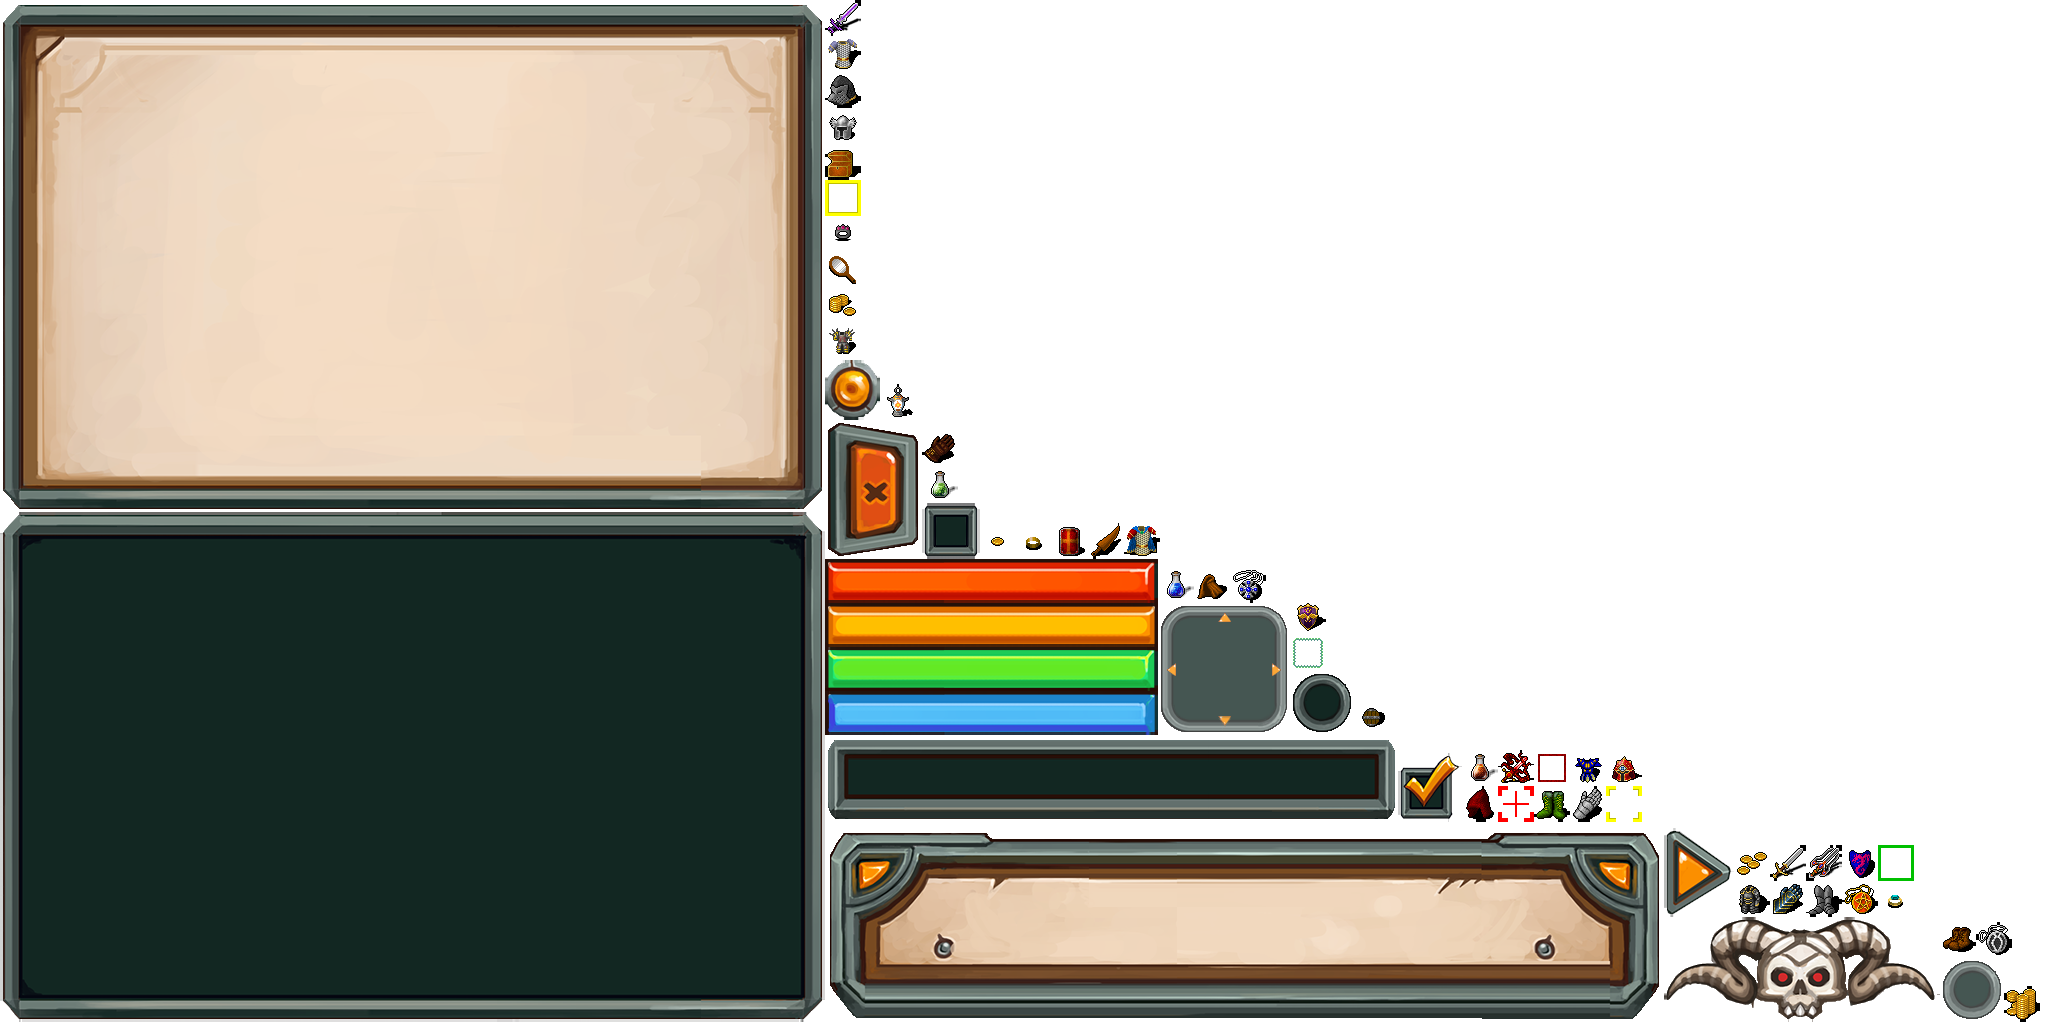
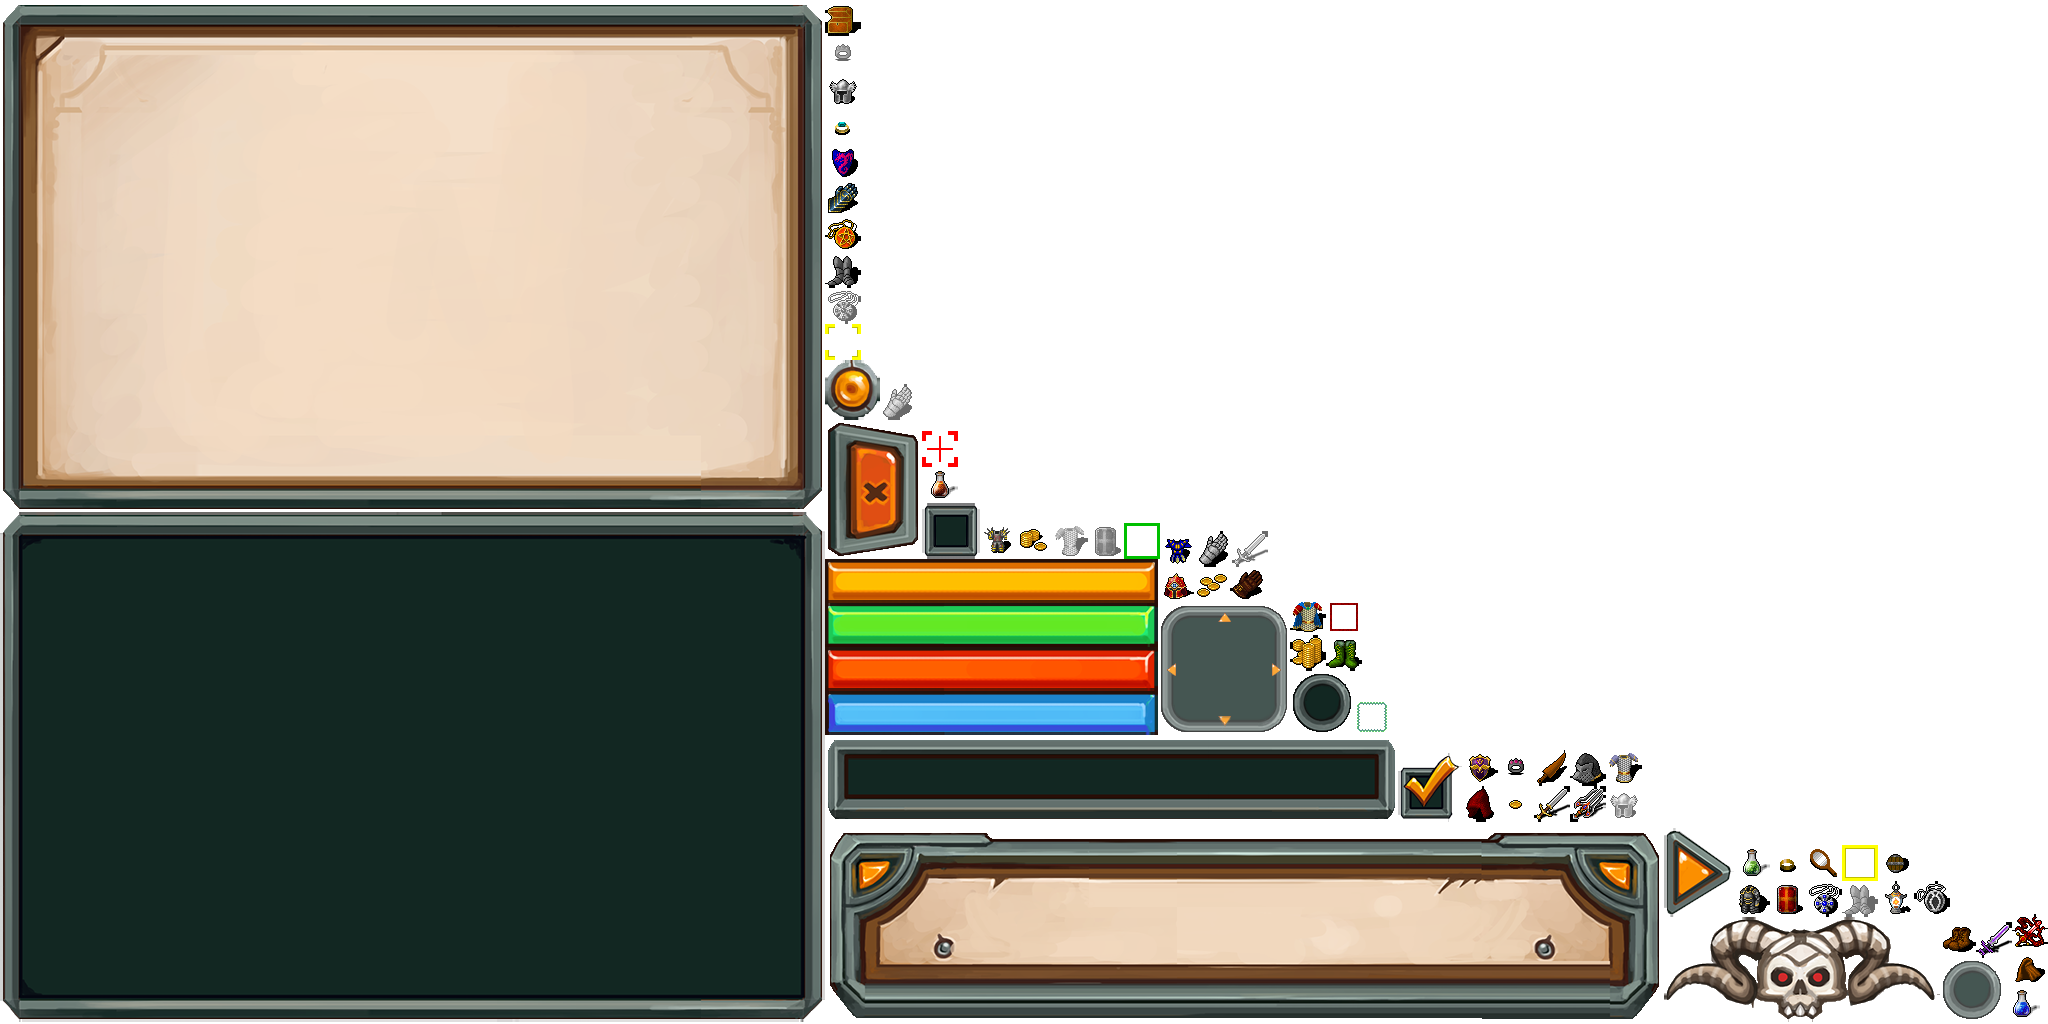
- added equiptype functionality so that f.e. weapons can only be dropped on weapon slot - also updated UI to indicate invalid drags to the user

diff --git a/core/src/com/quillraven/masamune/ui/InventoryUI.kt b/core/src/com/quillraven/masamune/ui/InventoryUI.kt
@@ -15,9 +15,13 @@ class InventoryUI constructor(game: MainGame) : Table(game.skin) {
     private val eventMgr = game.gameEventManager
     private val dragAndDrop = DragAndDrop()
     private val dragActor = Image()
+    private val invalidDragActor = Image()
     private val payload = DragAndDrop.Payload().apply {
         dragActor = this@InventoryUI.dragActor
         dragActor.setSize(50f, 50f)
+        invalidDragActor = this@InventoryUI.invalidDragActor
+        invalidDragActor.setSize(50f, 50f)
+        invalidDragActor.setColor(1f, 0f, 0f, 1f)
     }
 
     internal var selectedSlotIdx = -1
@@ -65,17 +69,17 @@ class InventoryUI constructor(game: MainGame) : Table(game.skin) {
         equipSlotTable.defaults().pad(5f)
         equipSlotTable.add(TextButton("[DIALOG_TITLE_LIGHT]${game.resourceBundle.get("Equipment")}", skin, "label")).expandX().fillX().pad(40f, 0f, 0f, 0f).colspan(3).row()
         // helmet
-        addInventorySlot(equipSlotTable, EEquipType.HELMET).colspan(3).padLeft(94f).padTop(20f).row()
+        addInventorySlot(equipSlotTable, "slot_helmet", EEquipType.HELMET).colspan(3).padLeft(94f).padTop(20f).row()
         // weapon, armor, shield
-        addInventorySlot(equipSlotTable, EEquipType.WEAPON).padLeft(25f)
-        addInventorySlot(equipSlotTable, EEquipType.ARMOR).padLeft(-26f)
-        addInventorySlot(equipSlotTable, EEquipType.SHIELD).padLeft(-23f).row()
+        addInventorySlot(equipSlotTable, "slot_weapon", EEquipType.WEAPON).padLeft(25f)
+        addInventorySlot(equipSlotTable, "slot_armor", EEquipType.ARMOR).padLeft(-26f)
+        addInventorySlot(equipSlotTable, "slot_shield", EEquipType.SHIELD).padLeft(-23f).row()
         // gloves, boots
-        addInventorySlot(equipSlotTable, EEquipType.GLOVES).padLeft(62f)
-        addInventorySlot(equipSlotTable, EEquipType.BOOTS).row()
+        addInventorySlot(equipSlotTable, "slot_gloves", EEquipType.GLOVES).padLeft(62f)
+        addInventorySlot(equipSlotTable, "slot_boots", EEquipType.BOOTS).row()
         // ring, necklace
-        addInventorySlot(equipSlotTable, EEquipType.RING).padLeft(62f).padBottom(50f)
-        addInventorySlot(equipSlotTable, EEquipType.NECKLACE).padBottom(50f).row()
+        addInventorySlot(equipSlotTable, "slot_ring", EEquipType.RING).padLeft(62f).padBottom(50f)
+        addInventorySlot(equipSlotTable, "slot_amulet", EEquipType.NECKLACE).padBottom(50f).row()
         add(equipSlotTable).width(240f).height(400f).pad(0f, -60f, 35f, 40f)
 
         // move little bit to the right to center between touchpad and action button
@@ -92,7 +96,7 @@ class InventoryUI constructor(game: MainGame) : Table(game.skin) {
         })
     }
 
-    private fun addInventorySlot(slotTable: Table, userObject: Any? = null): Cell<WidgetGroup> {
+    private fun addInventorySlot(slotTable: Table, slotInfoTexture: String = "", userObject: Any? = null): Cell<WidgetGroup> {
         val slot = WidgetGroup()
         // background graphic
         val imgSlot = Image(skin.getDrawable("slot_cursed"))
@@ -111,6 +115,14 @@ class InventoryUI constructor(game: MainGame) : Table(game.skin) {
         stackLbl.scaleBy(0.75f)
         stackLbl.setPosition(53f, 1f)
         slot.addActor(stackLbl)
+        if (!slotInfoTexture.isBlank()) {
+            // slot info graphic. used f.e. for equipment slots
+            val imgSlotInfo = Image(skin.getDrawable(slotInfoTexture))
+            imgSlotInfo.setSize(50f, 50f)
+            imgSlotInfo.setPosition(10f, 10f)
+            imgSlotInfo.scaleBy(-0.25f)
+            slot.addActor(imgSlotInfo)
+        }
 
         // drag source
         dragAndDrop.addSource(object : DragAndDrop.Source(slot) {
@@ -122,8 +134,13 @@ class InventoryUI constructor(game: MainGame) : Table(game.skin) {
 
                 // add item as drag actor --> item gets visually removed from slot but the real remove is not triggered yet
                 dragActor.drawable = imgItem.drawable
+                dragActor.userObject = imgItem.userObject
+                invalidDragActor.drawable = imgItem.drawable
                 imgItem.isVisible = false
                 stackLbl.isVisible = false
+                if (slot.children.size >= 4) {
+                    slot.children[3].isVisible = true
+                }
                 dragAndDrop.setDragActorPosition(dragActor.width * 0.5f, -dragActor.height * 0.5f)
                 return payload
             }
@@ -131,17 +148,29 @@ class InventoryUI constructor(game: MainGame) : Table(game.skin) {
             override fun dragStop(event: InputEvent?, x: Float, y: Float, pointer: Int, payload: DragAndDrop.Payload?, target: DragAndDrop.Target?) {
                 imgItem.isVisible = true
                 stackLbl.isVisible = true
+                if (slot.children.size >= 4) {
+                    slot.children[3].isVisible = imgItem.drawable == null
+                }
             }
         })
 
         // drag target
         dragAndDrop.addTarget(object : DragAndDrop.Target(slot) {
             override fun drag(source: DragAndDrop.Source, payload: DragAndDrop.Payload, x: Float, y: Float, pointer: Int): Boolean {
-                // valid drag only on slots that are different from the source slot
-                return source.actor != actor
+                val targetTable = actor.parent
+                if (targetTable == equipSlotTable) {
+                    // can only drop on valid type
+                    return actor.userObject == dragActor.userObject
+                }
+                return true
             }
 
             override fun drop(source: DragAndDrop.Source, payload: DragAndDrop.Payload, x: Float, y: Float, pointer: Int) {
+                if (source.actor == actor) {
+                    // same slot nothing to do
+                    return
+                }
+
                 val sourceTable = source.actor.parent
                 val targetTable = actor.parent
 
@@ -192,9 +221,18 @@ class InventoryUI constructor(game: MainGame) : Table(game.skin) {
         }
     }
 
-    private fun updateItemSlot(slot: WidgetGroup, texture: String, amount: Int) {
+    private fun updateItemSlot(slot: WidgetGroup, texture: String, amount: Int, equipType: EEquipType?) {
+        // update slot graphic
         val item = slot.children[1] as Image
-        item.drawable = if (texture.isBlank()) null else skin.getDrawable(texture)
+        if (texture.isBlank()) {
+            item.drawable = null
+            item.userObject = null
+        } else {
+            item.drawable = skin.getDrawable(texture)
+            item.userObject = equipType
+        }
+
+        // update stack size information
         val stack = slot.children[2] as Label
         stack.text.setLength(0)
         if (amount > 1) {
@@ -202,15 +240,20 @@ class InventoryUI constructor(game: MainGame) : Table(game.skin) {
             stack.text.append(amount)
         }
         stack.invalidateHierarchy()
+
+        if (slot.children.size >= 4) {
+            // update slot information image (visible if no item in slot)
+            slot.children[3].isVisible = item.drawable == null
+        }
     }
 
-    fun updateItemSlot(slotIdx: Int, texture: String, amount: Int = 1) {
+    fun updateItemSlot(slotIdx: Int, texture: String, amount: Int = 1, equipType: EEquipType?) {
         if (slotIdx < 0 || slotIdx >= inventorySlotTable.children.size) {
             Gdx.app.error(TAG, "Trying to update item $texture to invalid slot $slotIdx")
             return
         }
 
-        updateItemSlot(inventorySlotTable.children[slotIdx] as WidgetGroup, texture, amount)
+        updateItemSlot(inventorySlotTable.children[slotIdx] as WidgetGroup, texture, amount, equipType)
     }
 
     fun setInventorySize(size: Int) {
@@ -232,7 +275,7 @@ class InventoryUI constructor(game: MainGame) : Table(game.skin) {
     fun updateEquipSlot(type: EEquipType, texture: String) {
         for (slot in equipSlotTable.children) {
             if (slot.userObject == type) {
-                updateItemSlot(slot as WidgetGroup, texture, 1)
+                updateItemSlot(slot as WidgetGroup, texture, 1, if (texture.isBlank()) null else type)
                 break
             }
         }

diff --git a/core/src/com/quillraven/masamune/ecs/system/EquipmentSystem.kt b/core/src/com/quillraven/masamune/ecs/system/EquipmentSystem.kt
@@ -8,6 +8,7 @@ import com.badlogic.gdx.Gdx
 import com.quillraven.masamune.MainGame
 import com.quillraven.masamune.ecs.ECSEngine
 import com.quillraven.masamune.ecs.component.EquipmentComponent
+import com.quillraven.masamune.ecs.component.IdentifyComponent
 import com.quillraven.masamune.event.InputListener
 import com.quillraven.masamune.model.EEquipType
 
@@ -15,6 +16,7 @@ private const val TAG = "EquipmentSystem"
 
 class EquipmentSystem constructor(game: MainGame, ecsEngine: ECSEngine) : EntitySystem(), EntityListener, InputListener {
     private val equipCmpMapper = game.cmpMapper.equipment
+    private val equipTypeCmpMapper = game.cmpMapper.equipType
     private val invCmpMapper = game.cmpMapper.inventory
     private val gameEventManager = game.gameEventManager
     private val idSystem by lazy { engine.getSystem(IdentifySystem::class.java) }
@@ -28,7 +30,8 @@ class EquipmentSystem constructor(game: MainGame, ecsEngine: ECSEngine) : Entity
 
     override fun entityAdded(entity: Entity) {
         val equipCmp = equipCmpMapper.get(entity)
-        while (equipCmp.equipment.size < EEquipType.values().size) {
+        // reduce loop by 1 because type UNDEFINED is no valid equipment
+        while (equipCmp.equipment.size < EEquipType.values().size - 1) {
             equipCmp.equipment.add(DEFAULT_ENTITY_ID)
         }
     }
@@ -46,7 +49,8 @@ class EquipmentSystem constructor(game: MainGame, ecsEngine: ECSEngine) : Entity
 
     private fun getEquipmentItem(entity: Entity, type: EEquipType): Entity? {
         val equipCmp = equipCmpMapper.get(entity)
-        if (equipCmp != null && equipCmp.equipment.size <= EEquipType.values().size) {
+        // sub -1 from EEquipType because UNDEFINED is no valid type
+        if (equipCmp != null && equipCmp.equipment.size <= EEquipType.values().size - 1) {
             if (equipCmp.equipment.items[type.ordinal] == DEFAULT_ENTITY_ID) {
                 // empty slot without equipment
                 return null
@@ -81,6 +85,17 @@ class EquipmentSystem constructor(game: MainGame, ecsEngine: ECSEngine) : Entity
         val item = inventorySystem.getInventoryItem(entity, inventorySlotIdx)
         if (item == null) {
             Gdx.app.error(TAG, "Cannot equip a non existing item of slot $inventorySlotIdx")
+            return
+        }
+
+        val itemEquipType = equipTypeCmpMapper.get(item)
+        if (itemEquipType == null || itemEquipType.type == EEquipType.UNDEFINED) {
+            Gdx.app.debug(TAG, "Cannot equip an item with no equipType ${item.getComponent(IdentifyComponent::class.java).type}")
+            return
+        }
+
+        if (type != itemEquipType.type) {
+            Gdx.app.debug(TAG, "Cannot equip item of type ${itemEquipType.type} in slot $type")
             return
         }
 

diff --git a/core/src/com/quillraven/masamune/screen/GameScreen.kt b/core/src/com/quillraven/masamune/screen/GameScreen.kt
@@ -69,16 +69,17 @@ class GameScreen : Q2DScreen(), InputListener, ItemListener {
     override fun itemSlotUpdated(slotIdx: Int, item: Entity?) {
         if (item != null) {
             val stackCmp = game.cmpMapper.stackable.get(item)
+            val equipType = game.cmpMapper.equipType.get(item)?.type
             if (stackCmp != null) {
-                gameUI.inventoryUI.updateItemSlot(slotIdx, game.cmpMapper.render.get(item).texture, stackCmp.size)
+                gameUI.inventoryUI.updateItemSlot(slotIdx, game.cmpMapper.render.get(item).texture, stackCmp.size, equipType)
             } else {
-                gameUI.inventoryUI.updateItemSlot(slotIdx, game.cmpMapper.render.get(item).texture)
+                gameUI.inventoryUI.updateItemSlot(slotIdx, game.cmpMapper.render.get(item).texture, equipType = equipType)
             }
             if (slotIdx == gameUI.inventoryUI.selectedSlotIdx) {
                 inputShowItem(slotIdx)
             }
         } else {
-            gameUI.inventoryUI.updateItemSlot(slotIdx, "")
+            gameUI.inventoryUI.updateItemSlot(slotIdx, "", equipType = null)
         }
     }
 

diff --git a/core/src/com/quillraven/masamune/ecs/ComponentMapper.kt b/core/src/com/quillraven/masamune/ecs/ComponentMapper.kt
@@ -16,4 +16,5 @@ class ComponentMapper {
     internal val description = ComponentMapper.getFor(DescriptionComponent::class.java)
     internal val price = ComponentMapper.getFor(PriceComponent::class.java)
     internal val equipment = ComponentMapper.getFor(EquipmentComponent::class.java)
+    internal val equipType = ComponentMapper.getFor(EquiptypeComponent::class.java)
 }

diff --git a/core/src/com/quillraven/masamune/ecs/component/EquipmentComponent.kt b/core/src/com/quillraven/masamune/ecs/component/EquipmentComponent.kt
@@ -6,7 +6,8 @@ import com.badlogic.gdx.utils.Pool
 import com.quillraven.masamune.model.EEquipType
 
 class EquipmentComponent : Pool.Poolable, Component {
-    val equipment = IntArray(EEquipType.values().size)
+    // reduce size by 1 because UNDEFINED is no valid type
+    val equipment = IntArray(EEquipType.values().size - 1)
 
     override fun reset() {
     }

diff --git a/core/src/com/quillraven/masamune/ecs/component/EquiptypeComponent.kt b/core/src/com/quillraven/masamune/ecs/component/EquiptypeComponent.kt
@@ -1,0 +1,13 @@
+package com.quillraven.masamune.ecs.component
+
+import com.badlogic.ashley.core.Component
+import com.badlogic.gdx.utils.Pool
+import com.quillraven.masamune.model.EEquipType
+
+class EquiptypeComponent : Pool.Poolable, Component {
+    var type = EEquipType.UNDEFINED
+
+    override fun reset() {
+        type = EEquipType.UNDEFINED
+    }
+}

diff --git a/core/src/com/quillraven/masamune/ecs/system/GameRenderSystem.kt b/core/src/com/quillraven/masamune/ecs/system/GameRenderSystem.kt
@@ -72,6 +72,7 @@ class GameRenderSystem constructor(game: MainGame) : SortedIteratingSystem(Famil
     override fun update(deltaTime: Float) {
         Gdx.gl.glClearColor(0f, 0f, 0f, 1f)
         Gdx.gl.glClear(GL20.GL_COLOR_BUFFER_BIT)
+        batch.setColor(1f, 1f, 1f, 1f)
 
         viewport.apply()
         mapRenderer.setView(camera)

diff --git a/core/src/com/quillraven/masamune/model/EEquipType.kt b/core/src/com/quillraven/masamune/model/EEquipType.kt
@@ -1,5 +1,5 @@
 package com.quillraven.masamune.model
 
 enum class EEquipType {
-    HELMET, WEAPON, ARMOR, SHIELD, GLOVES, BOOTS, RING, NECKLACE
+    UNDEFINED, HELMET, WEAPON, ARMOR, SHIELD, GLOVES, BOOTS, RING, NECKLACE
 }
